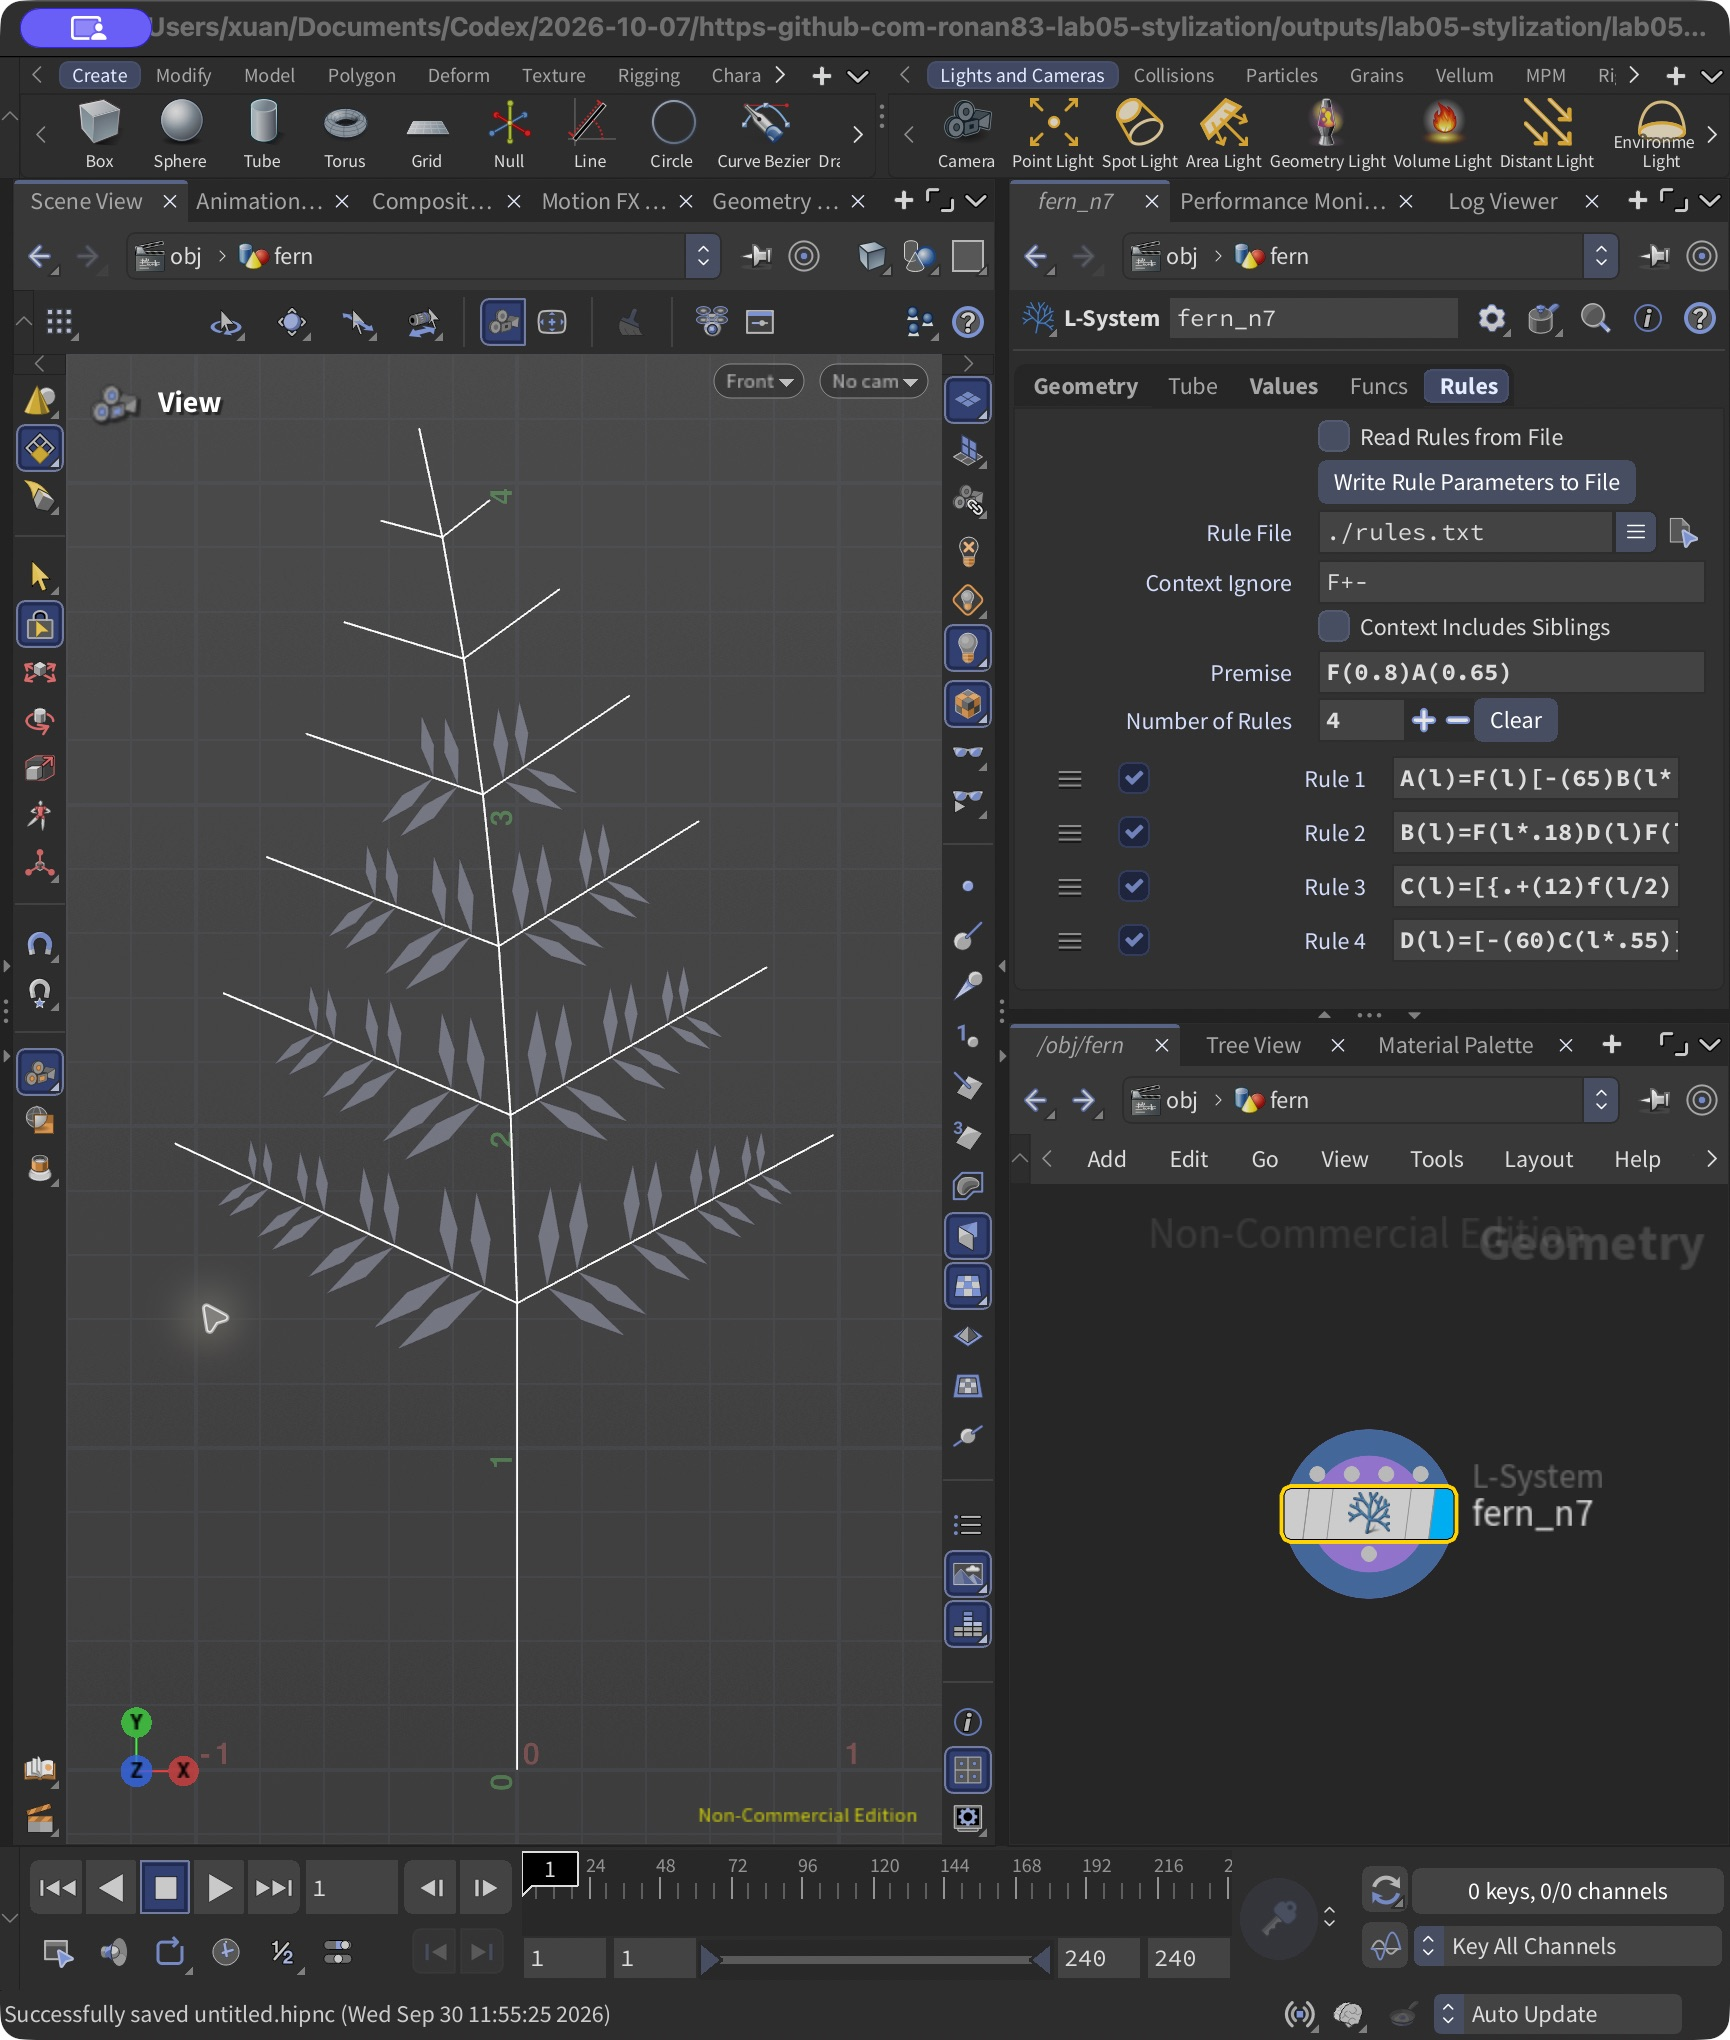
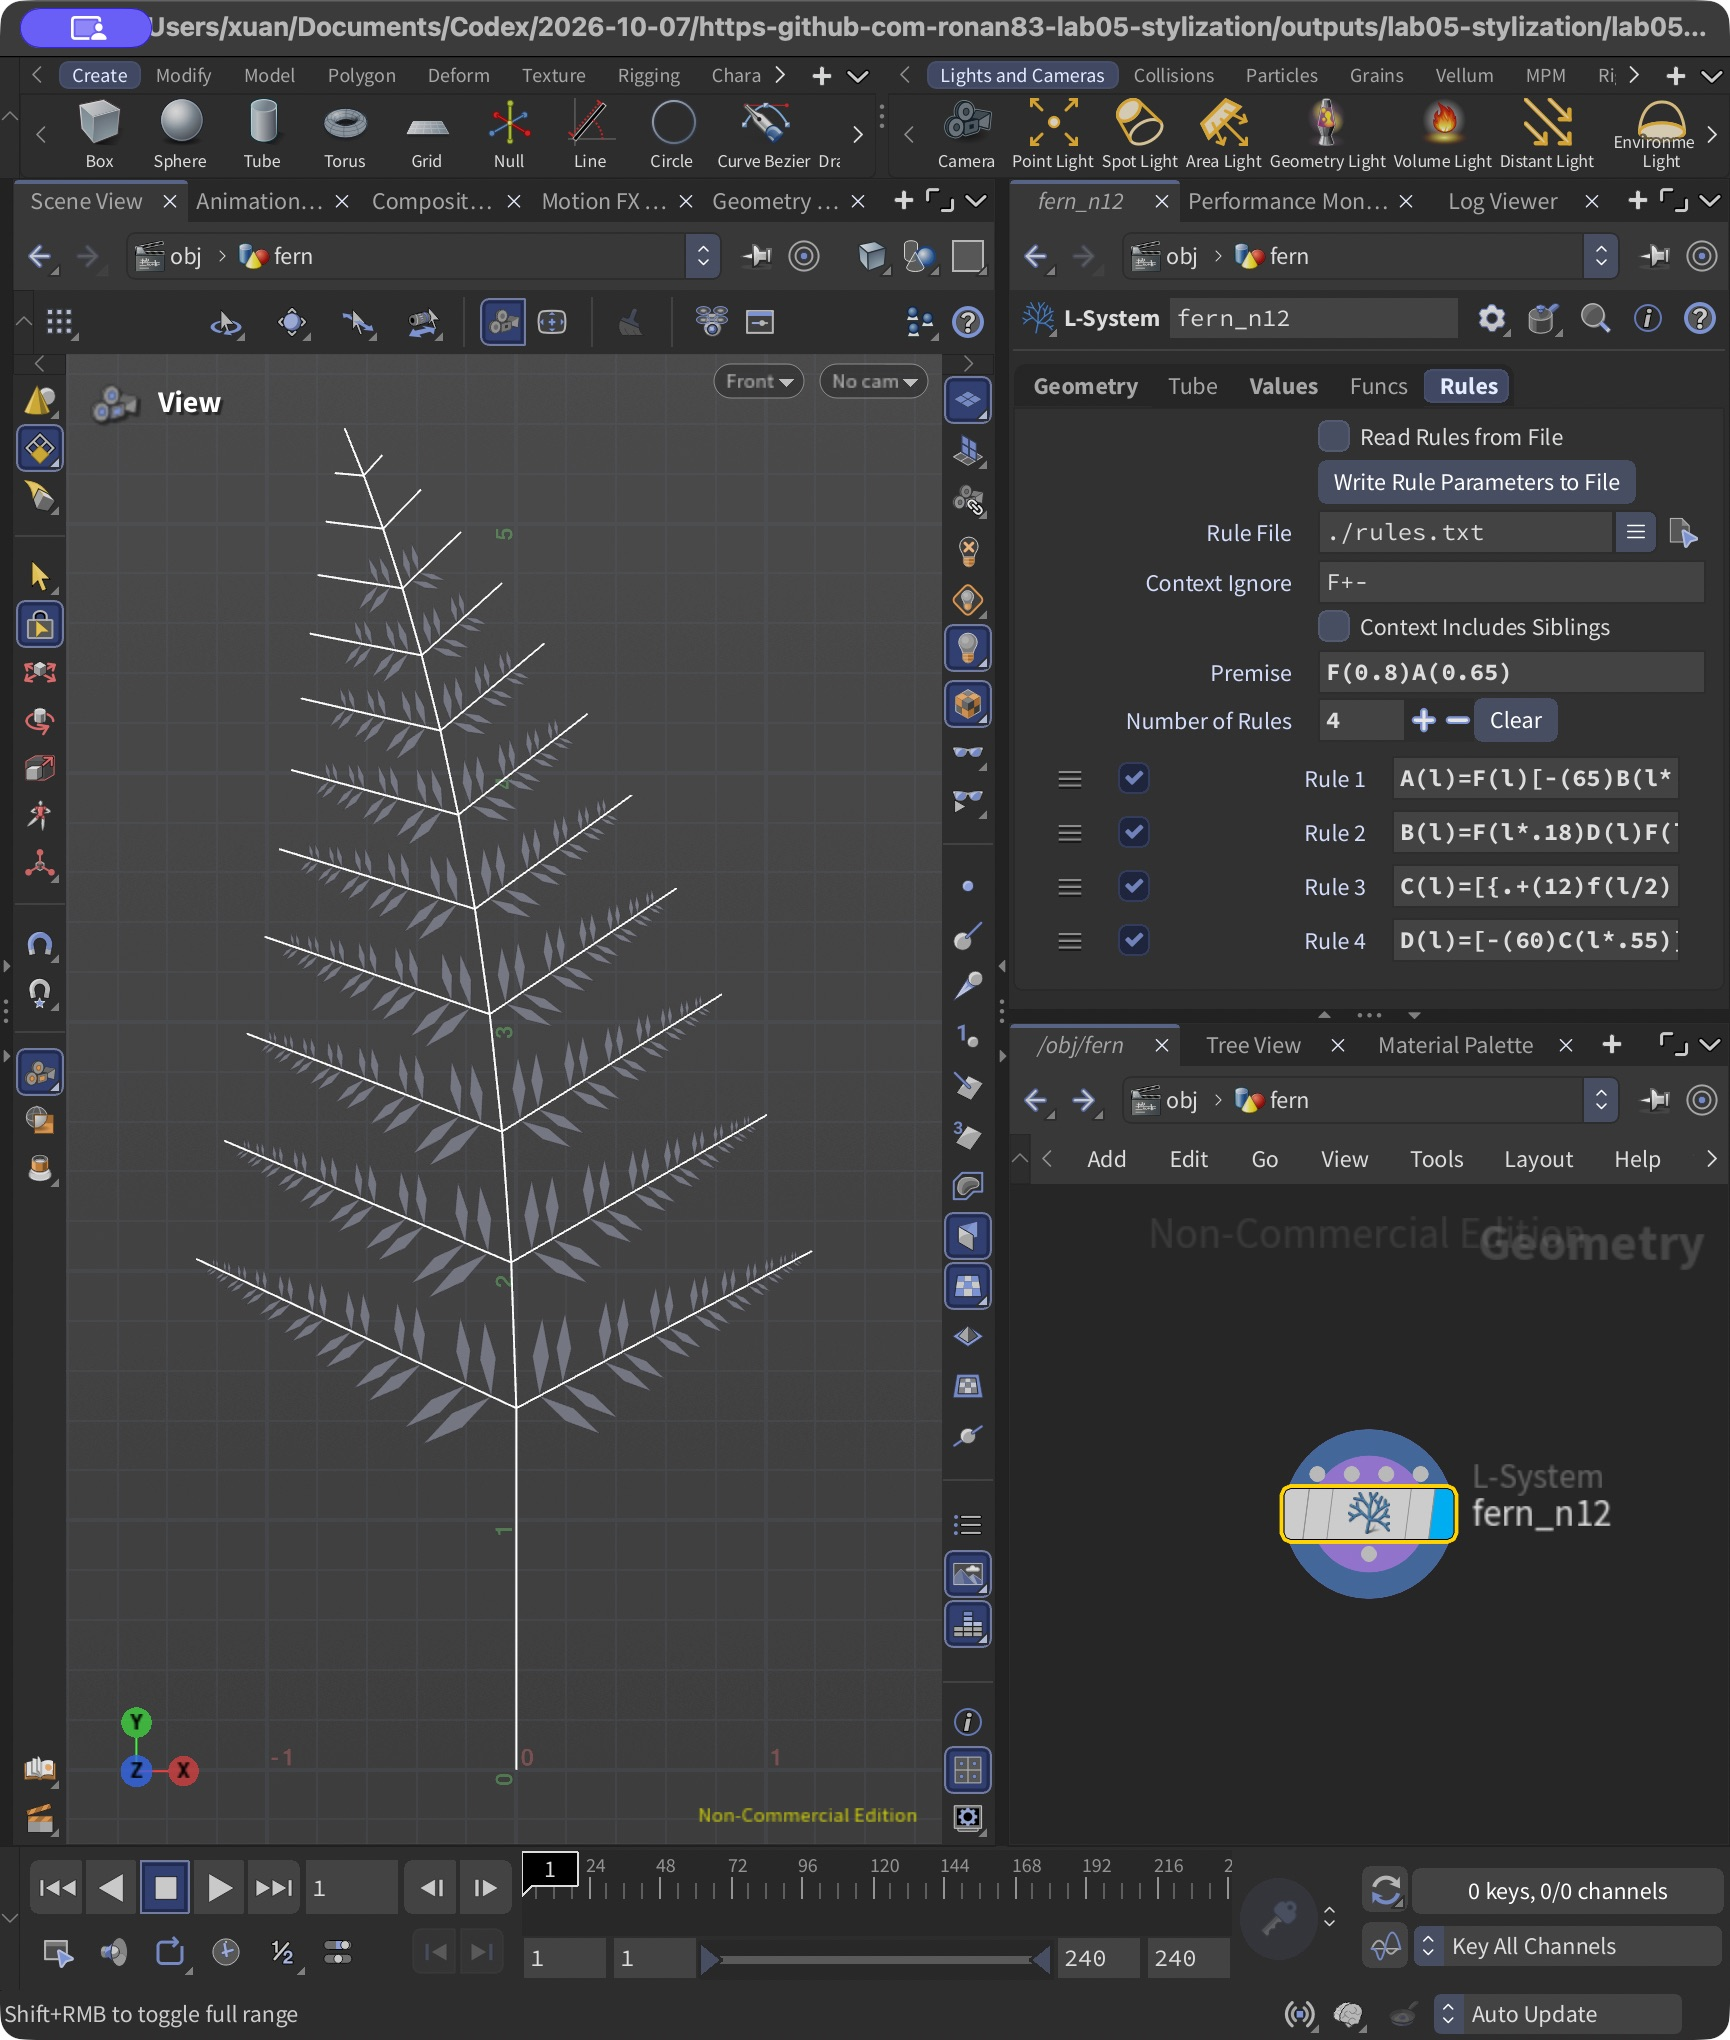
Update fern study and README with final iterations

diff --git a/README.md b/README.md
@@ -1,6 +1,6 @@
 # Lab 05 — L-systems
 
-The Houdini file is [lab05.hipnc](lab05.hipnc). It contains three geometry objects: `wheat`, `square`, and `fern`. Each object has separate L-system nodes for the iterations shown below.
+Project file: [lab05.hipnc](lab05.hipnc). The three objects are `wheat`, `square`, and `fern`. Each has one L-system node for each iteration shown below.
 
 ## 1. Wheat grammar
 
@@ -10,7 +10,7 @@ Angle: 20 degrees
 Rule: F=FF[-FF]F[-FF]FF-
 ```
 
-The main stem has five forward steps. The two `[-FF]` branches leave the stem at different heights, and the brackets return the turtle to the stem after each branch. The last `-` changes the heading for the next section. It does not change the first iteration's visible stem, but it makes the later iterations bend and curl.
+The five `F` symbols outside the brackets form the main stem. Each `[-FF]` adds a two-step branch, then returns to the stem. The final `-` is easy to miss: it leaves the first iteration's shape unchanged, but turns the next section in later iterations. That is what gives the larger shape its curl.
 
 ### Rules in Houdini
 
@@ -28,7 +28,7 @@ Angle: 90 degrees
 Rule: F=F+F-F-F+F
 ```
 
-The initial `+(90)` points the turtle to the right. Each `F` becomes five segments: right, down, right, up, and right, relative to the starting heading. Replacing every segment again produces the smaller square loops in the second and third iterations.
+The initial `+(90)` points the turtle to the right. The first replacement draws right, down, right, up, and right. Applying the same pattern to every segment gives 5, 25, and 125 segments in iterations 1, 2, and 3.
 
 ### Rules in Houdini
 
@@ -40,9 +40,11 @@ The initial `+(90)` points the turtle to the right. Each `F` becomes five segmen
 
 ## 3. Custom plant — fern
 
-The reference is a lady fern. The structure I focused on is the central stalk, the side branches on both sides, and the smaller leaflets along those branches. This is a simplified flat frond; the individual leaflets have straight edges instead of the small lobes in the photo.
+I chose a lady fern because its structure repeats at two levels: branches along the main stalk, then leaflets along each branch. The model keeps that arrangement and the taper toward the tip. It is a flat, simplified frond; the leaflets have straight edges rather than the small lobes in the photo.
 
-<img src="images/fern_reference.jpg" width="420" alt="Lady fern reference photograph">
+| Reference photograph | My L-system, iteration 12 |
+| --- | --- |
+| <img src="images/fern_reference.jpg" width="330" alt="Lady fern reference photograph"> | <img src="images/fern_result.png" width="330" alt="Iteration 12 fern in the Houdini viewport"> |
 
 Reference photo: [Rosser1954, Lady Fern frond — normal appearance](https://commons.wikimedia.org/wiki/File:Lady_Fern_frond_-_normal_appearance.jpg), [CC BY-SA 3.0](https://creativecommons.org/licenses/by-sa/3.0/). The photo is included unchanged.
 
@@ -58,25 +60,25 @@ C(l)=[{.+(12)f(l/2).-(24)f(l/2).-(156)f(l/2).-(24)f(l/2).}]
 D(l)=[-(60)C(l*.55)][+(60)C(l*.5)]
 ```
 
-- **A** grows one section of the central stalk and starts a branch on each side. The next section is 90% as long, so the frond tapers toward its tip. The two branch angles and lengths are slightly different, and the stalk bends by 2 degrees per section.
-- **B** grows a side branch. It adds two pairs of leaflets and then continues with a shorter branch segment. The `0.78` factor makes the outer parts smaller.
-- **C** draws one narrow leaflet. The braces start and end a polygon, the dots record its corners, and lowercase `f` moves between corners without adding stem lines. Its brackets keep the leaf from changing the branch's position or heading.
-- **D** places a leaflet on each side of a branch. Keeping this pair in its own rule lets the same arrangement be reused twice in **B**.
+- **A — main stalk:** draws one section and starts a branch on each side. The next section is 90% as long, and a 2-degree turn curves the stalk. Slightly different angles and lengths keep the two sides from matching exactly.
+- **B — side branch:** draws three short sections, places two pairs of leaflets, and continues with 78% of the previous length. This makes each branch taper too.
+- **C — leaflet:** draws a narrow polygon. Braces define the polygon, dots mark its corners, and lowercase `f` moves without drawing stem lines. The brackets restore the branch's position and heading afterward.
+- **D — leaflet pair:** places a leaflet on each side at 60 degrees. Keeping the pair in a separate rule lets **B** reuse it.
 
-Here, `l` is the length passed into each symbol. The rules are applied together once per generation, so a new `B` takes another generation to produce `D`, and `D` takes another generation to produce the leaf polygon through `C`. This is why the youngest branches near the tip still have no leaves.
+`l` is the length passed into each symbol. Rules are replaced in parallel: `B` produces `D`, then `D` produces `C`, and finally `C` draws the polygon. This delay leaves the youngest branches near the tip bare.
 
-### Iterations 3, 5, and 7
+### Iterations 4, 8, and 12
 
-At iteration 3, the stalk and side branches are visible. At iteration 5, the older branches have leaflets. At iteration 7, there are more rows of branches and more leaflets on the lower branches.
+Iteration 4 has the first leaflets. By iteration 8, the older branches have several pairs. Iteration 12 shows the fuller frond, with smaller branches toward the tip.
 
 ![Fern iterations](images/fern_iterations.png)
 
-The three iteration diagrams use the actual geometry generated by the Houdini nodes, arranged side by side for comparison. Each view is fitted separately; green is used in the fern diagram to make the leaf polygons easier to see.
+The comparison diagrams are drawn from the nodes' actual geometry. Each panel is fitted separately, so they compare structure rather than absolute size. Green makes the fern's leaf polygons easier to see.
 
-<img src="images/fern_houdini.png" width="700" alt="Fern at iteration 7 in the Houdini viewport">
+Full Houdini screenshots: [iteration 4](images/fern_n4.png), [iteration 8](images/fern_n8.png), and [iteration 12 with the rule panel](images/fern_houdini.png).
 
 ## Opening the project
 
-Open `lab05.hipnc` in Houdini. The file opens on `fern_n7`. To inspect a different result, enter its geometry object, select the desired L-system node, and turn on its blue display flag. The number at the end of each node name is its generation count.
+Open `lab05.hipnc` in Houdini. It opens on `fern_n12`. To view another result, enter its geometry object and turn on the desired node's blue display flag. The number in each node name is its generation count.
 
 All nodes use **Skeleton** output and **Random Scale = 0**. The puzzle nodes use **Step Size = 1**. The fern uses explicit segment lengths in its rules. The results were checked in Houdini Apprentice 22.0.429; the project is saved as a non-commercial `.hipnc` file.
